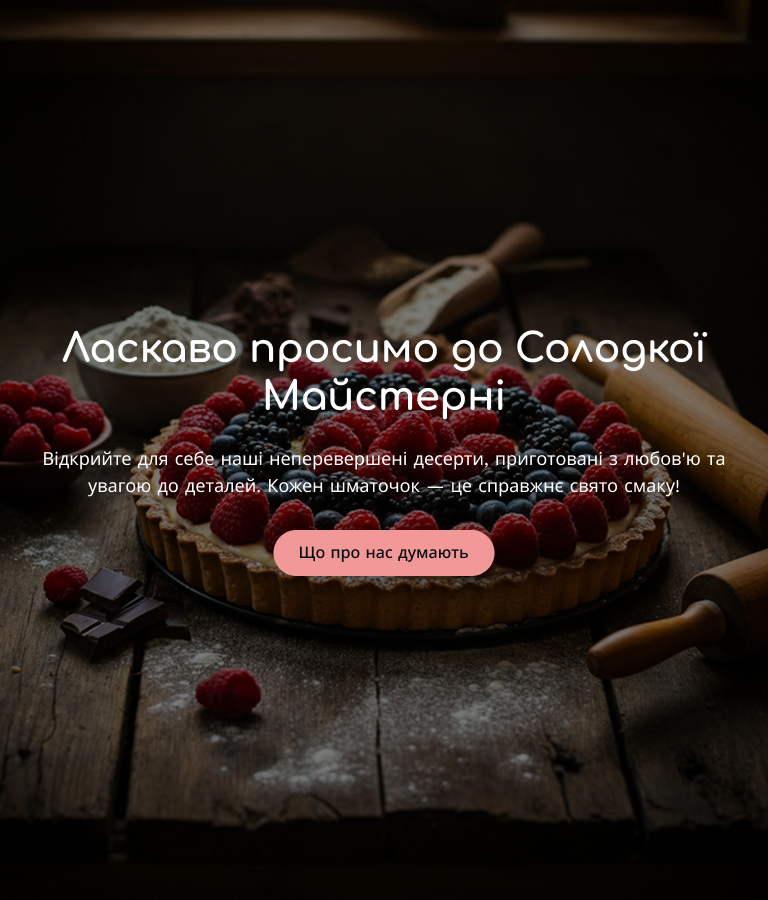
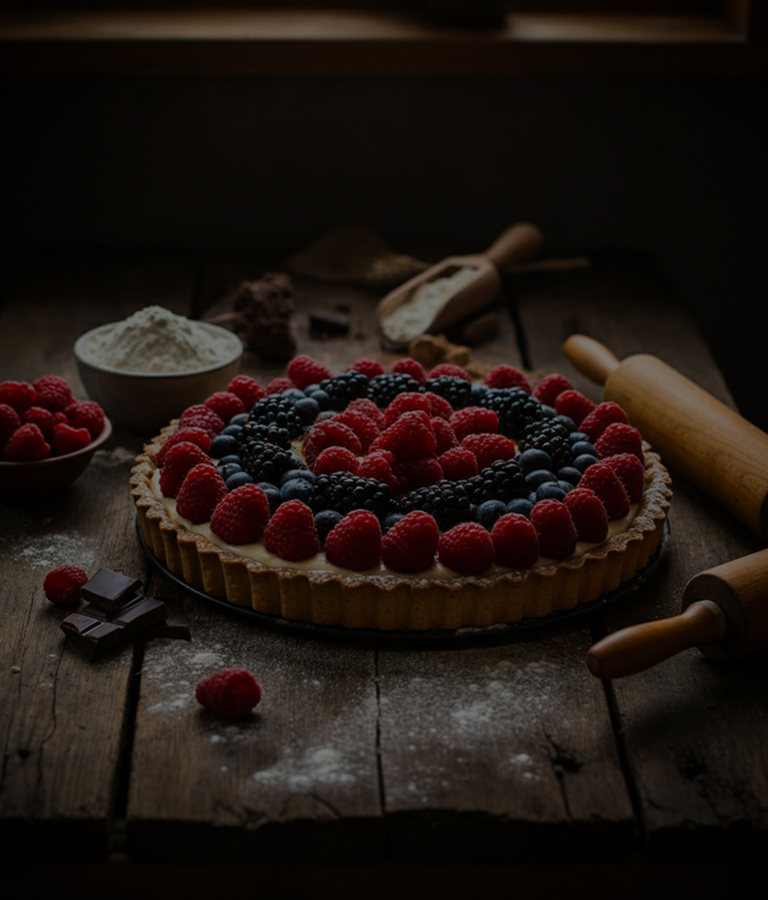
Refactor footer and popular products styles for improved responsiveness; update hero image

Changed region(s): [[0.0625, 0.4978, 0.9375, 0.56], [0.0625, 0.3422, 0.9375, 0.4667], [0.3438, 0.5911, 0.6562, 0.6533]]

diff --git a/src/css/footer.css b/src/css/footer.css
@@ -31,7 +31,7 @@
   justify-content: center;
   flex-direction: column;
   max-width: 309px;
-  height: 132px;
+  height: auto;
   text-decoration: none;
   transition: opacity 0.3s ease;
 }
@@ -42,7 +42,7 @@
 
 .logo-icon {
   fill: var(--color-scheme-1-text);
-  width: 100%;
+  width: min(82.4vw, 309px);
   height: auto;
 }
 
@@ -179,6 +179,7 @@
     flex-direction: row;
     gap: 32px;
   }
+
 
   .footer-copyright {
     max-width: 704px;

diff --git a/src/css/popular-products.css b/src/css/popular-products.css
@@ -4,7 +4,7 @@
 
 .popular-title {
   font-weight: 700;
-  font-size: 36px;
+  font-size: min(9.6vw, 36px);
   line-height: 1.2;
   letter-spacing: -0.01em;
   color: var(--color-neutral-darkest);